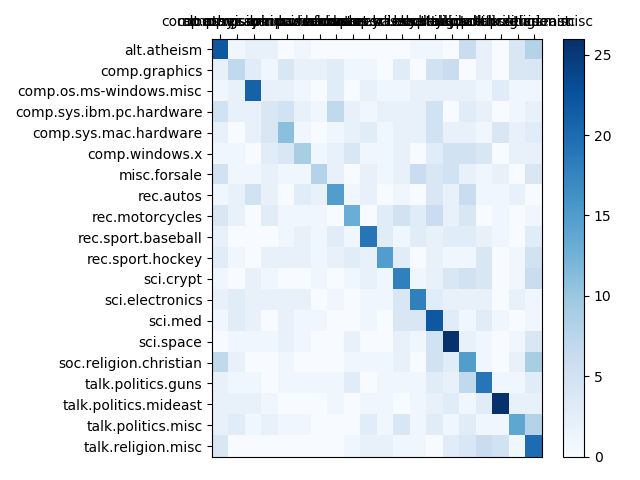
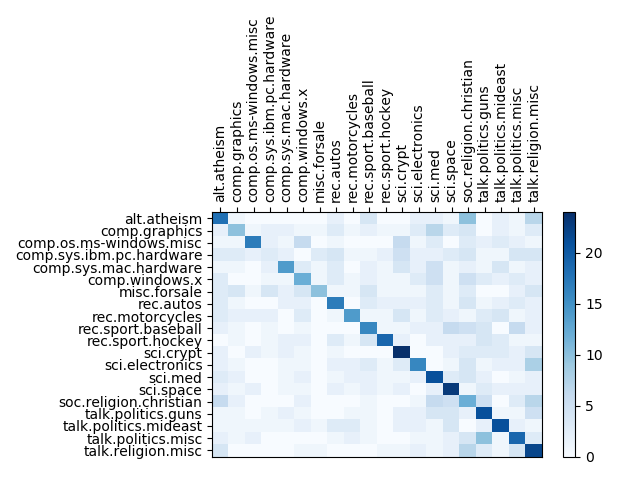
updated written answers

diff --git a/P2/code.py b/P2/code.py
@@ -134,15 +134,15 @@ def findSimilarity(func, filename):
             matrix[i][j] = float(total_similarities)/num_similarities
     makeHeatMap(matrix, groups, plt.cm.Blues, filename)
 
-print("Jaccard Similarity...")
-findSimilarity(jaccard, "jaccard.png")
-print("Jaccard Done")
-print("L2 Similarity...")
-findSimilarity(l2sim, "l2sim.png")
-print("L2 Done")
-print("Cosine Similarity...")
-findSimilarity(cosine, "cosine.png")
-print("Cosine Done")
+# print("Jaccard Similarity...")
+# findSimilarity(jaccard, "jaccard.png")
+# print("Jaccard Done")
+# print("L2 Similarity...")
+# findSimilarity(l2sim, "l2sim.png")
+# print("L2 Done")
+# print("Cosine Similarity...")
+# findSimilarity(cosine, "cosine.png")
+# print("Cosine Done")
 
 # QUESTION 2
 # TODO: fix baseline? & improve heatmap look
@@ -175,9 +175,9 @@ def baseline():
     print(classification_error)
     makeHeatMap(matrix, groups, plt.cm.Blues, "baseline.png")
 
-# print("Baseline...")
-# baseline()
-# print("Baseline Done")
+print("Baseline...")
+baseline()
+print("Baseline Done")
 
 def projection(d):
     new_articles = []
@@ -229,22 +229,22 @@ def cosine_arr(x, y):
     y_term = math.sqrt(y_term)
     return float(numerator)/(x_term * y_term)
 
-# print("Projecting w d = 10...")
-# projection1 = projection(10)
-# print("Finding nearest neighbors...")
-# nearest_neighbor(projection1, "projection1.png")
-# print("Projecting w d = 25...")
-# projection2 = projection(25)
-# print("Finding nearest neigbors...")
-# nearest_neighbor(projection2, "projection2.png")
-# print("Projecting w d = 50...")
-# projection3 = projection(50)
-# print("Finding nearest neigbors...")
-# nearest_neighbor(projection3, "projection3.png")
-# print("Projecting w d = 100...")
-# projection4 = projection(100)
-# print("Finding nearest neighbors...")
-# nearest_neighbor(projection4, "projection4.png")
+print("Projecting w d = 10...")
+projection1 = projection(10)
+print("Finding nearest neighbors...")
+nearest_neighbor(projection1, "projection1.png")
+print("Projecting w d = 25...")
+projection2 = projection(25)
+print("Finding nearest neigbors...")
+nearest_neighbor(projection2, "projection2.png")
+print("Projecting w d = 50...")
+projection3 = projection(50)
+print("Finding nearest neigbors...")
+nearest_neighbor(projection3, "projection3.png")
+print("Projecting w d = 100...")
+projection4 = projection(100)
+print("Finding nearest neighbors...")
+nearest_neighbor(projection4, "projection4.png")
 
 
 #Question 3
